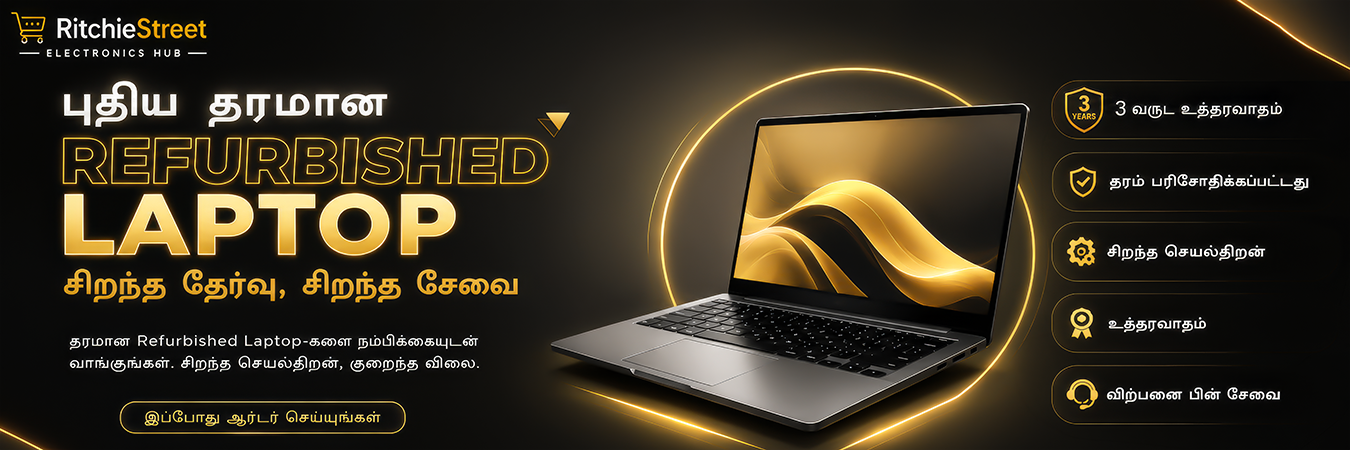
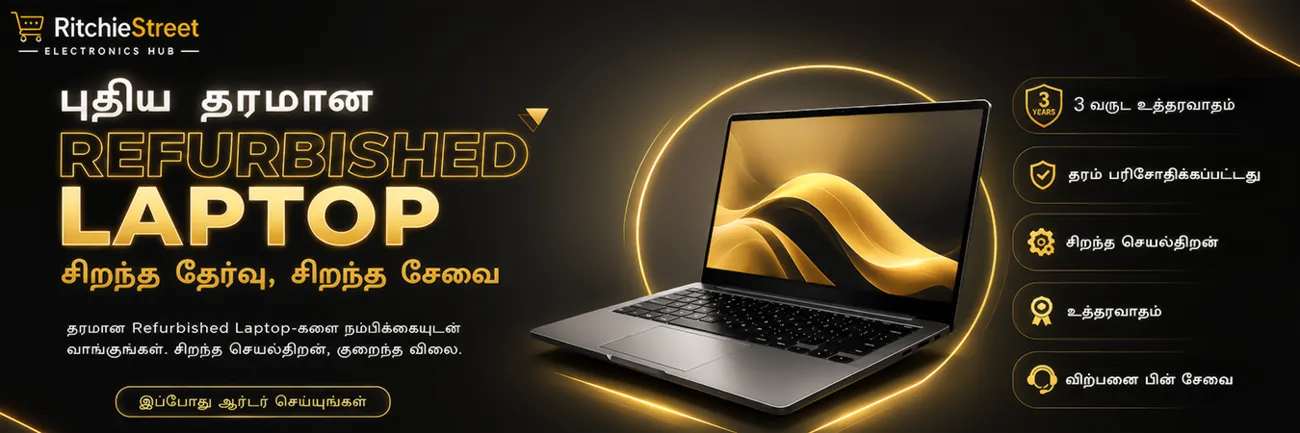
...

diff --git a/src/api/Home.js b/src/api/Home.js
@@ -39,14 +39,21 @@ const Home = ({ onPriceCompare }) => {
   const [error, setError] = useState('');
   const [currentSlide, setCurrentSlide] = useState(0);
   const [isPaused, setIsPaused] = useState(false);
+  const [promoSlide, setPromoSlide] = useState(0);
+  const [isPromoPaused, setIsPromoPaused] = useState(false);
   const mainRef = useRef(null);
   const heroRef = useRef(null);
-  const [heroHeight, setHeroHeight] = useState(null);
 
   const banners = useMemo(() => [
     { image: '/images/slider1A.webp', alt: 'Ritchie Street Shopping banner', link: null },
     { image: '/images/slider2A.webp', alt: 'Services banner', link: '/services' },
     { image: '/images/slider3A.webp', alt: 'Other Enquiries banner', link: '/contact' }
+  ], []);
+
+  const promoBanners = useMemo(() => [
+    { image: '/images/coming_soon_banner.webp', alt: 'Products coming soon' },
+    { image: '/images/refurbished.webp', alt: 'Refurbished Products' },
+    { image: '/images/rental.webp', alt: 'Rental Products' }
   ], []);
 
   useEffect(() => {
@@ -62,32 +69,6 @@ const Home = ({ onPriceCompare }) => {
     return () => cancelAnimationFrame(id);
   }, []);
 
-  // Synchronize "Products Are Coming Soon" banner height with the hero section
-  useEffect(() => {
-    const hero = heroRef.current;
-    if (!hero) return;
-
-    const updateHeight = () => {
-      if (hero) {
-        setHeroHeight(hero.getBoundingClientRect().height);
-      }
-    };
-
-    updateHeight();
-
-    let resizeObserver;
-    if (typeof ResizeObserver !== 'undefined') {
-      resizeObserver = new ResizeObserver(updateHeight);
-      resizeObserver.observe(hero);
-    }
-
-    return () => {
-      if (resizeObserver) {
-        resizeObserver.disconnect();
-      }
-    };
-  }, []);
-
   useEffect(() => {
     if (!isPaused) {
       const interval = setInterval(() => {
@@ -96,6 +77,15 @@ const Home = ({ onPriceCompare }) => {
       return () => clearInterval(interval);
     }
   }, [isPaused, banners]);
+
+  useEffect(() => {
+    if (!isPromoPaused) {
+      const interval = setInterval(() => {
+        setPromoSlide((prev) => (prev + 1) % promoBanners.length);
+      }, 4000);
+      return () => clearInterval(interval);
+    }
+  }, [isPromoPaused, promoBanners]);
 
   const fetchProducts = async () => {
     try {
@@ -119,6 +109,18 @@ const Home = ({ onPriceCompare }) => {
   const goToNextSlide = useCallback(() => {
     setCurrentSlide((prev) => (prev + 1) % banners.length);
   }, [banners]);
+
+  const goToPromoSlide = useCallback((index) => {
+    setPromoSlide(index);
+  }, []);
+
+  const goToPrevPromoSlide = useCallback(() => {
+    setPromoSlide((prev) => (prev - 1 + promoBanners.length) % promoBanners.length);
+  }, [promoBanners]);
+
+  const goToNextPromoSlide = useCallback(() => {
+    setPromoSlide((prev) => (prev + 1) % promoBanners.length);
+  }, [promoBanners]);
 
   return (
     <Layout title="Ritchie Street Best Online Electronics Hub" description="Shop electronics, computer accessories, services, CCTV, laptops and Chennai technology support from Ritchie Street.">
@@ -267,22 +269,49 @@ const Home = ({ onPriceCompare }) => {
           </div>
         </section>
 
-        {/* Coming Soon Banner */}
-        <div
-          className="coming-soon-banner coming-soon-banner--home"
-          style={{ '--coming-soon-height': heroHeight ? `${heroHeight}px` : 'auto' }}
-        >
-          <img src="/images/coming_soon_banner.webp" alt="Products coming soon" width="1200" height="300" loading="lazy" decoding="async" />
+        {/* Coming Soon Banner - Promo Slider */}
+        <div className="coming-soon-banner coming-soon-banner--home">
+          <div
+            className="promo-carousel"
+            onMouseEnter={() => setIsPromoPaused(true)}
+            onMouseLeave={() => setIsPromoPaused(false)}
+          >
+            <div className="promo-carousel-track" style={{ transform: `translateX(-${promoSlide * 100}%)` }}>
+              {promoBanners.map((banner, index) => (
+                <div
+                  key={index}
+                  className={`promo-carousel-slide ${index === promoSlide ? 'active' : ''}`}
+                >
+                  <img
+                    src={banner.image}
+                    alt={banner.alt}
+                    width="1200"
+                    height="300"
+                    loading="lazy"
+                    decoding="async"
+                  />
+                </div>
+              ))}
+            </div>
+
+            <button className="promo-carousel-arrow promo-carousel-arrow-prev" onClick={goToPrevPromoSlide}>‹</button>
+            <button className="promo-carousel-arrow promo-carousel-arrow-next" onClick={goToNextPromoSlide}>›</button>
+
+            <div className="promo-carousel-dots">
+              {promoBanners.map((_, index) => (
+                <button
+                  key={index}
+                  className={`promo-carousel-dot ${index === promoSlide ? 'active' : ''}`}
+                  onClick={() => goToPromoSlide(index)}
+                />
+              ))}
+            </div>
+          </div>
         </div>
 
         <Suspense fallback={<div />}>
           {/* Categories Section */}
           <CategoriesSection />
-
-          {/* Refurbished Banner */}
-          <div className="refurbished-banner">
-            <img src="/images/refurbished.webp" alt="Refurbished Products" width="1200" height="300" loading="lazy" decoding="async" />
-          </div>
 
           {/* Featured Products Section */}
           <section className="featured-products-section">
@@ -297,11 +326,6 @@ const Home = ({ onPriceCompare }) => {
               <ProductTicker products={products} onPriceCompare={onPriceCompare} />
             )}
           </section>
-
-          {/* Rental Banner */}
-          <div className="rental-banner">
-            <img src="/images/rental.webp" alt="Rental Products" width="1200" height="300" loading="lazy" decoding="async" />
-          </div>
 
           {/* Trusted Brands Section */}
           <BrandLogos />

diff --git a/src/api/Home.css b/src/api/Home.css
@@ -233,6 +233,115 @@ body {
   display: block;
 }
 
+/* Promo Carousel Styles */
+.promo-carousel {
+  width: 100%;
+  border-radius: 12px;
+  overflow: hidden;
+  position: relative;
+  background: #fff;
+  box-shadow: 0 4px 12px rgba(0, 0, 0, 0.08);
+}
+
+.promo-carousel-track {
+  display: flex;
+  width: 100%;
+  transition: transform 0.6s cubic-bezier(0.25, 0.46, 0.45, 0.94);
+}
+
+.promo-carousel-slide {
+  min-width: 100%;
+  width: 100%;
+  flex-shrink: 0;
+  position: relative;
+  background: black;
+  display: flex;
+  align-items: center;
+  justify-content: center;
+}
+
+.promo-carousel-slide img {
+  width: 100%;
+  height: auto;
+  display: block;
+  object-fit: contain;
+  transition: opacity 0.5s ease;
+  max-height: 400px;
+}
+
+.promo-carousel-slide.active img {
+  opacity: 1;
+}
+
+/* Promo Navigation Arrows */
+.promo-carousel-arrow {
+  position: absolute;
+  top: 50%;
+  transform: translateY(-50%);
+  width: 40px;
+  height: 40px;
+  background: #ffffff;
+  border: none;
+  border-radius: 50%;
+  font-size: 24px;
+  cursor: pointer;
+  display: flex;
+  align-items: center;
+  justify-content: center;
+  box-shadow: 0 4px 16px rgba(0,0,0,0.12);
+  transition: background 0.25s ease, color 0.25s ease, box-shadow 0.25s ease, transform 0.25s ease;
+  z-index: 20;
+  color: #444;
+  line-height: 1;
+}
+
+.promo-carousel-arrow:hover {
+  background: #ff6b00;
+  color: #ffffff;
+  box-shadow: 0 6px 20px rgba(255,107,0,0.35);
+  transform: translateY(-50%) scale(1.08);
+}
+
+.promo-carousel-arrow-prev {
+  left: 12px;
+}
+
+.promo-carousel-arrow-next {
+  right: 12px;
+}
+
+/* Promo Dot Indicators */
+.promo-carousel-dots {
+  position: absolute;
+  bottom: 12px;
+  left: 50%;
+  transform: translateX(-50%);
+  display: flex;
+  gap: 8px;
+  z-index: 20;
+}
+
+.promo-carousel-dot {
+  width: 8px;
+  height: 8px;
+  border-radius: 50%;
+  background: #ccc;
+  border: none;
+  cursor: pointer;
+  transition: background 0.25s ease, width 0.25s ease, border-radius 0.25s ease;
+  padding: 0;
+}
+
+.promo-carousel-dot:hover {
+  background: #ff6b00;
+}
+
+.promo-carousel-dot.active {
+  background: #ff6b00;
+  width: 24px;
+  border-radius: 4px;
+}
+
 /* ============================================
    PREMIUM TRUST SECTIONS
 ============================================ */
@@ -1885,7 +1994,7 @@ body {
 .home .coming-soon-banner--home img {
   width: 100%;
   height: auto;
-  object-fit: cover;
+  object-fit: contain;
   object-position: center;
   display: block;
 }
@@ -1893,11 +2002,11 @@ body {
 /* Desktop: dynamically match hero section height */
 @media (min-width: 901px) {
   .home .coming-soon-banner--home {
-    height: var(--coming-soon-height, auto);
+    height: auto;
   }
 
   .home .coming-soon-banner--home img {
-    height: 100%;
+    height: auto;
   }
 }
 
